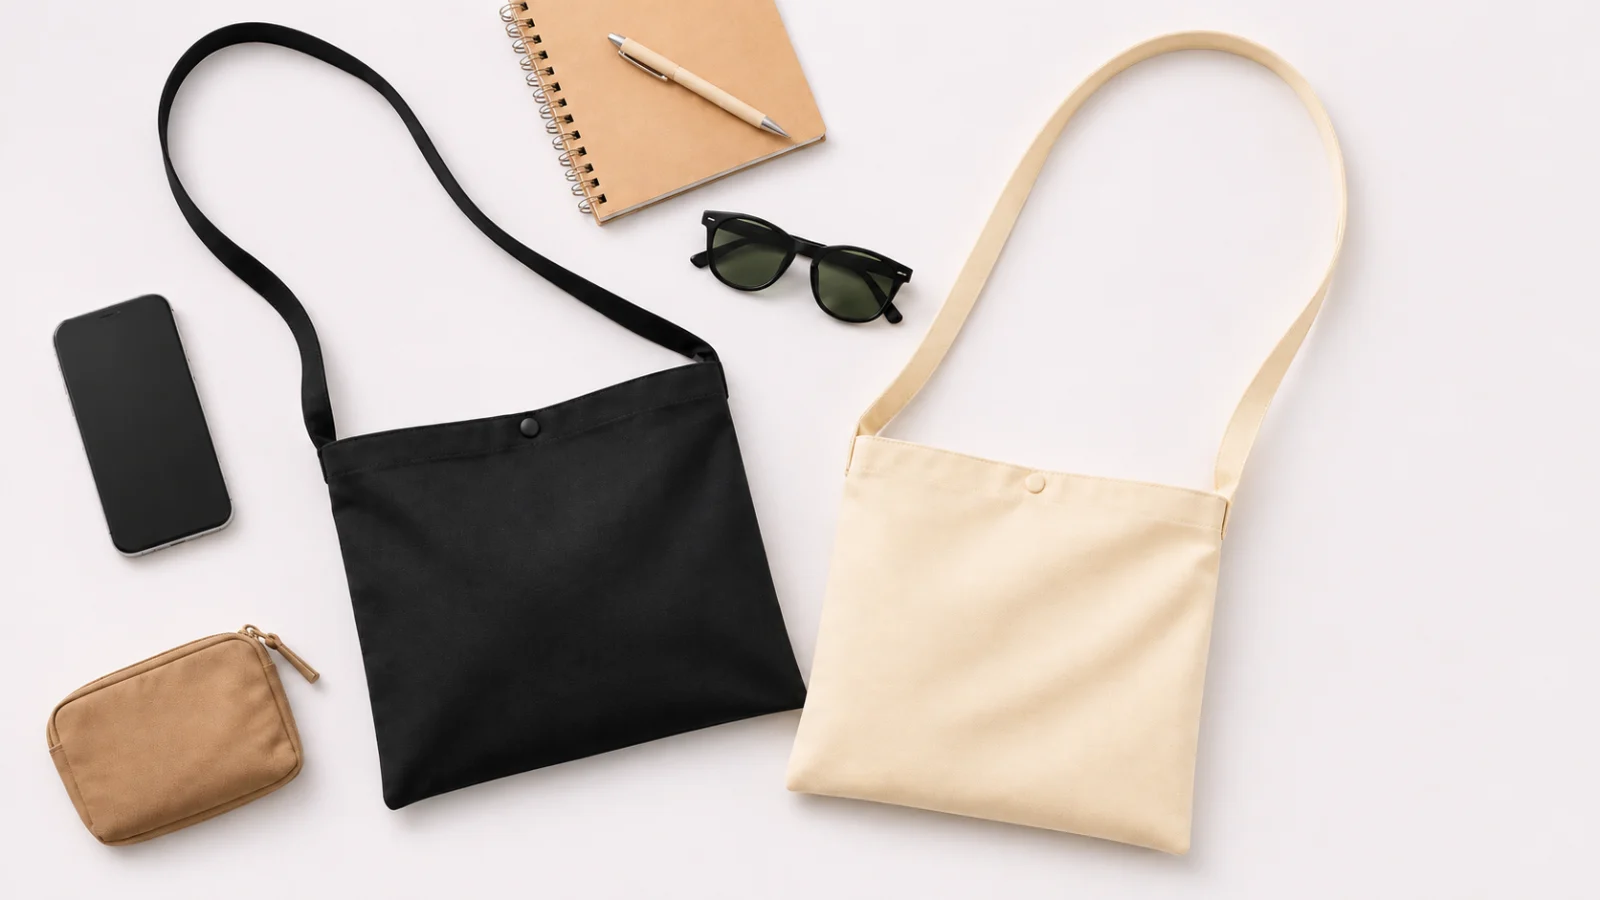
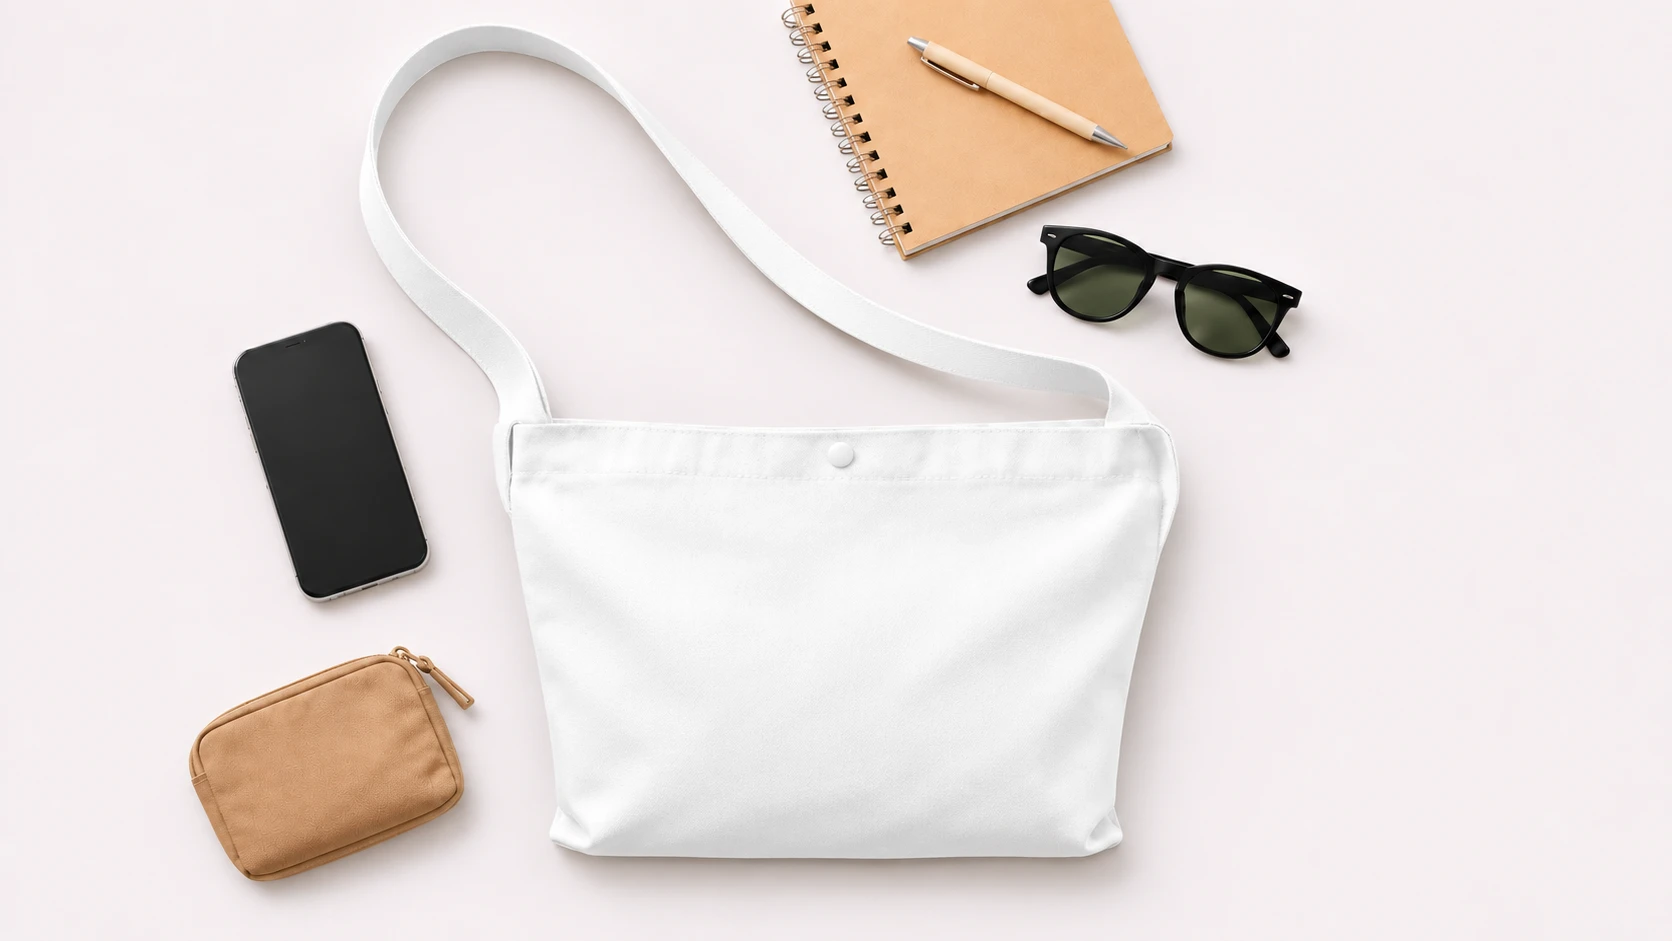
Goods: white canvas tote photo

diff --git a/goods.html b/goods.html
@@ -134,7 +134,7 @@
           <p class="gp-price"><span class="num">$460</span><small>起</small><span class="gp-tag">日常實用</span></p>
         </header>
         <div class="gp-body">
-          <figure class="gp-photo reveal"><img src="assets/goods/tote-photo.webp" alt="帆布側背小包：黑色與米色" width="1600" height="900" loading="lazy" /></figure>
+          <figure class="gp-photo reveal"><img src="assets/goods/tote-photo.webp?v=2" alt="帆布側背小包：白色" width="1672" height="941" loading="lazy" /></figure>
           <ul class="gp-specs reveal" style="--d:1">
               <li><b>顏色</b><span>白色</span></li>
               <li><b>尺寸</b><span>高30cm、寬35cm、底寬10cm</span></li>
